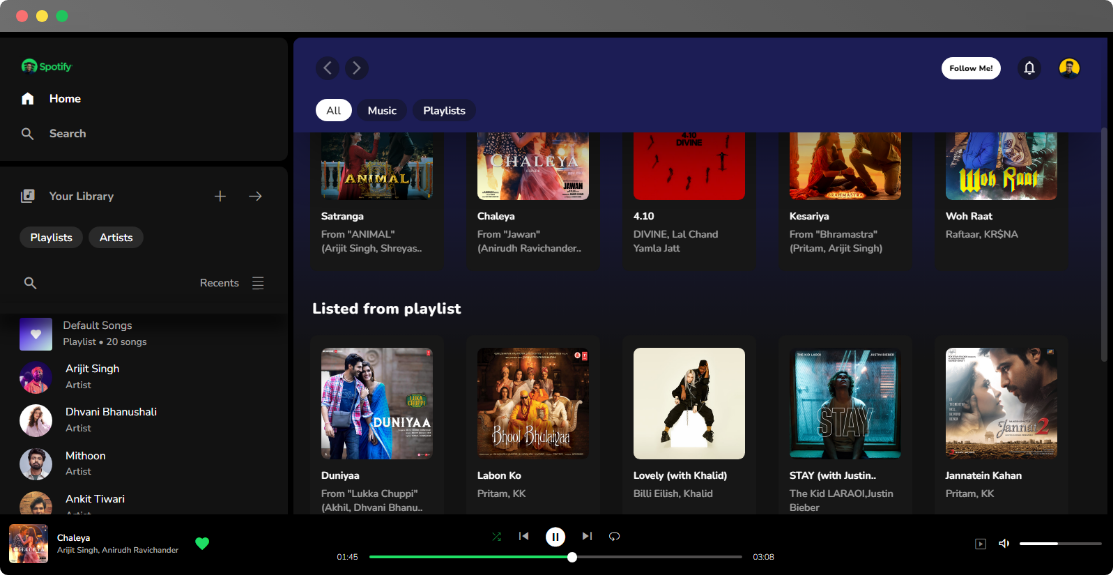
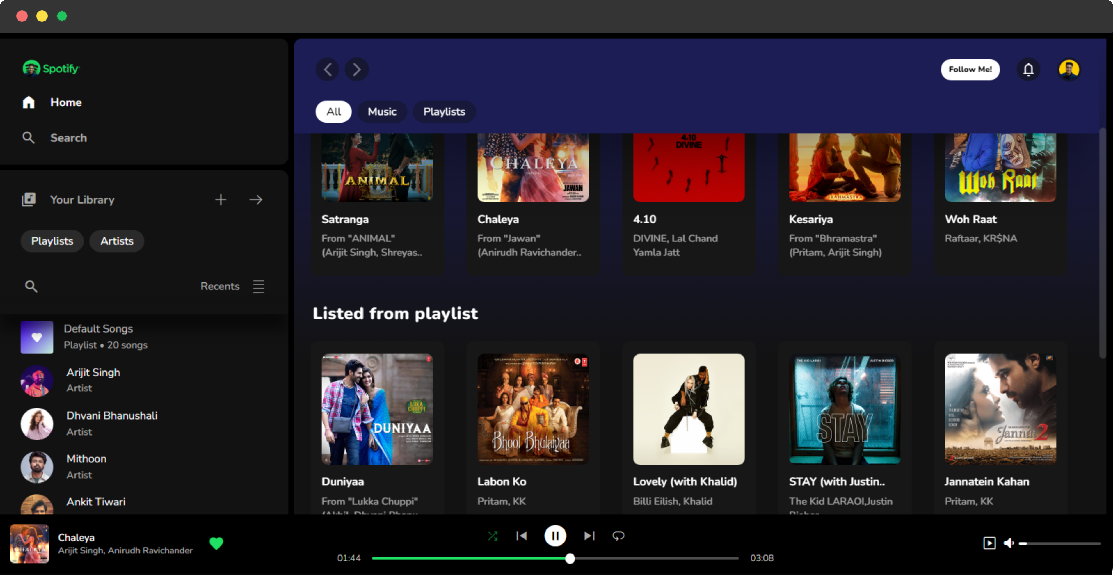
first commit

diff --git a/README.md b/README.md
@@ -43,6 +43,8 @@ My project is an improved version of a Spotify clone, with the vision of making 
 <img src="icon/screenshot.png" alt="Logo" style="width:100vw">
 <br></br>
 <img src="icon/screenshot1.png" alt="Logo" style="width:100vw">
+<br></br>
+<img src="icon/screenshot2.png" alt="Logo" style="width:100vw">
 <br>
 <br>
 
